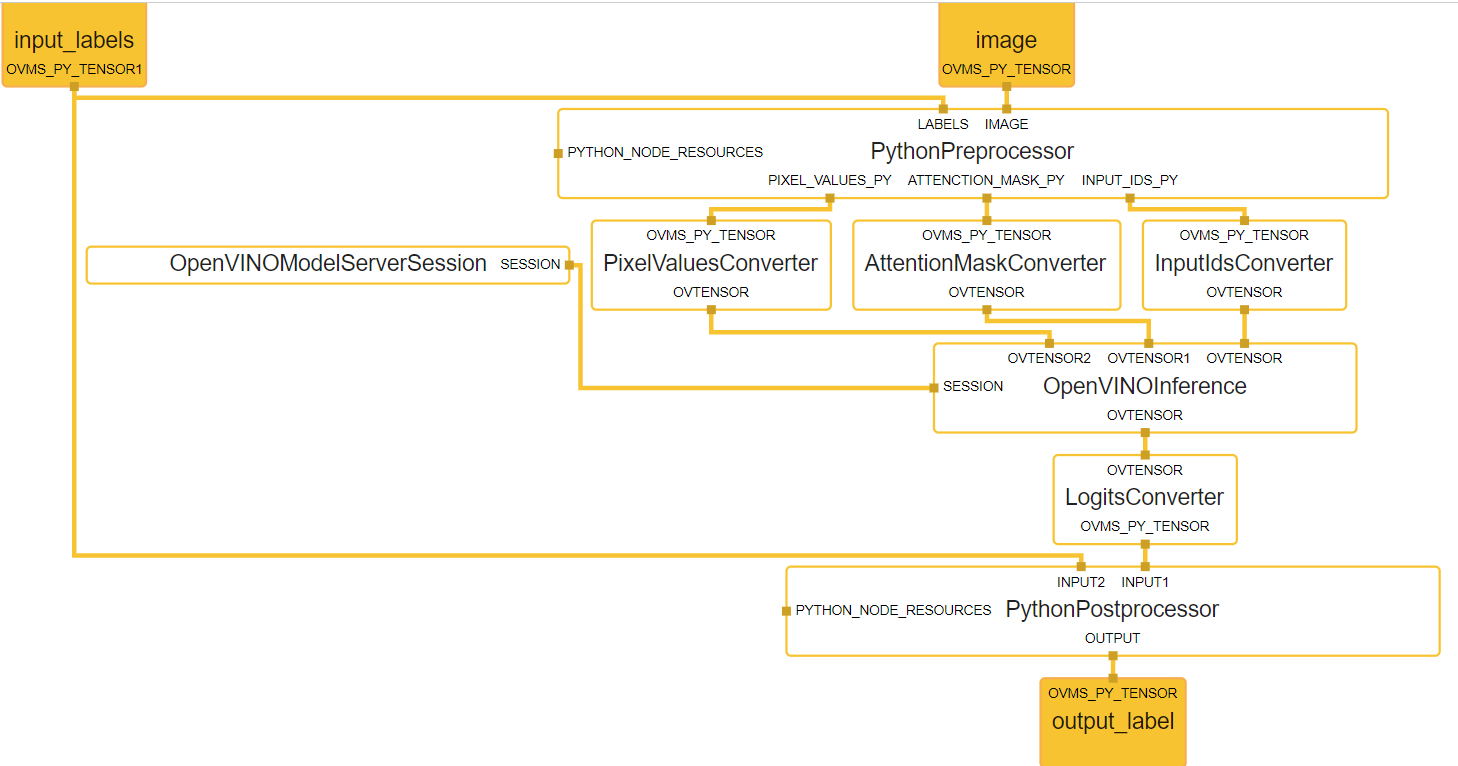
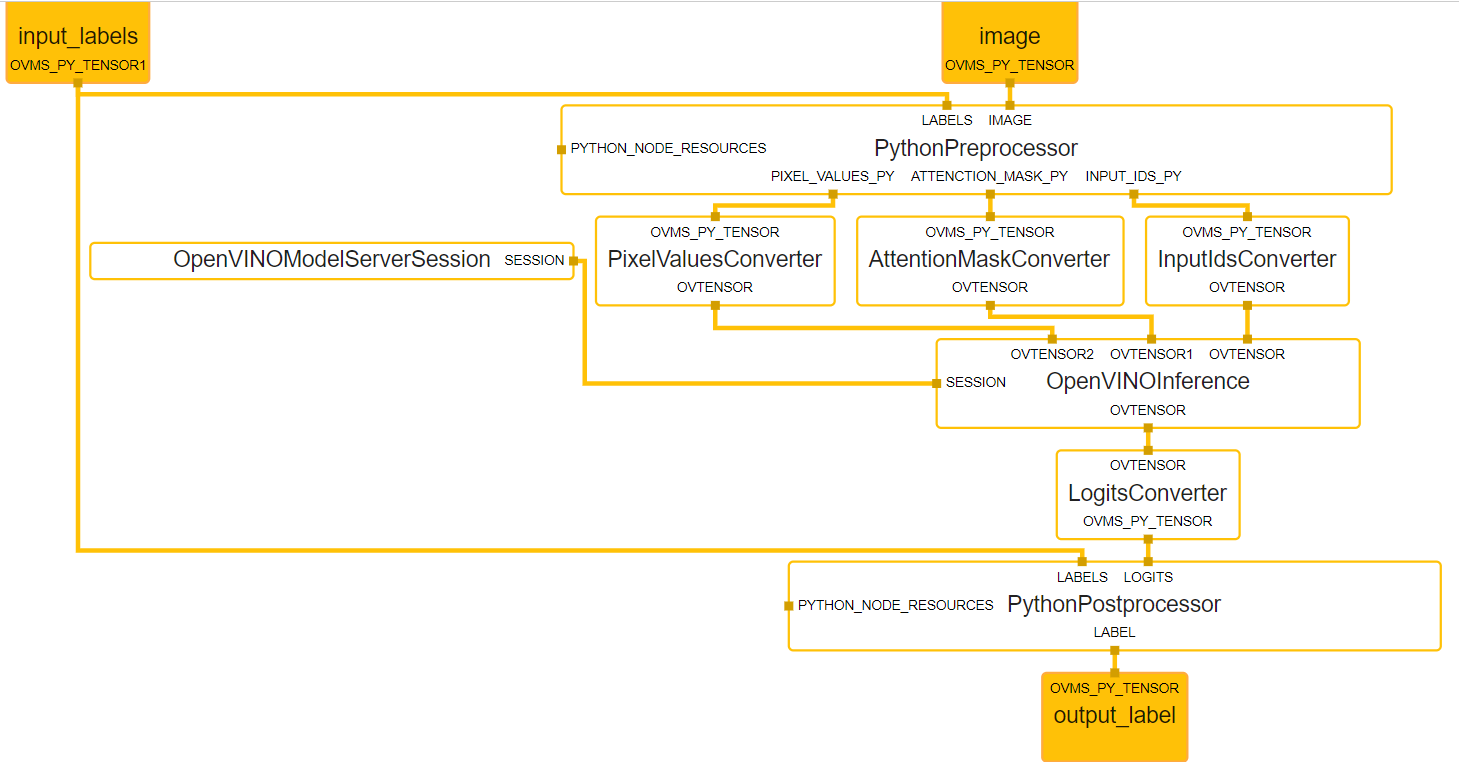
Docs

Changed region(s): [[0.0, 0.0, 0.9877, 1.0], [0.9259, 0.4528, 0.9568, 0.5433]]

diff --git a/demos/python_demos/clip_image_classification/servable/postprocess.py b/demos/python_demos/clip_image_classification/servable/postprocess.py
@@ -24,9 +24,10 @@ class OvmsPythonModel:
         pass
     
     def execute(self, inputs: list):
-        ov_logits_per_image = np.array(inputs[0], copy=False)
+        input_labels = np.frombuffer(inputs[0].data, inputs[0].datatype)
+
+        ov_logits_per_image = np.array(inputs[1], copy=False)
         probs = softmax(ov_logits_per_image, axis=1)[0]
-        input_labels = np.frombuffer(inputs[1].data, inputs[1].datatype)
 
         max_prob = probs.argmax(axis=0)
         max_label = input_labels[max_prob]

diff --git a/demos/README.md b/demos/README.md
@@ -6,6 +6,7 @@ maxdepth: 1
 hidden:
 ---
 
+ovms_demo_clip_image_classification
 ovms_demo_age_gender_guide
 ovms_demo_horizontal_text_detection
 ovms_demo_optical_character_recognition
@@ -42,6 +43,7 @@ OpenVINO Model Server demos have been created to showcase the usage of the model
 ## Python 
 | Demo | Description |
 |---|---|
+|[CLIP image classification](python_demos/clip_image_classification/README.md) | Python node execution with Openvino Model Server inference example on mediapipe graph with CLIP image classification model.|
 |[Age gender recognition](age_gender_recognition/python/README.md) | Run prediction on a JPEG image using age gender recognition model via gRPC API.|
 |[Horizontal Text Detection in Real-Time](horizontal_text_detection/python/README.md) | Run prediction on camera stream using a horizontal text detection model via gRPC API. This demo uses [pipeline](../docs/dag_scheduler.md) with [horizontal_ocr custom node](https://github.com/openvinotoolkit/model_server/tree/main/src/custom_nodes/horizontal_ocr) and [demultiplexer](../docs/demultiplexing.md). |
 |[Optical Character Recognition Pipeline](optical_character_recognition/python/README.md) | Run prediction on a JPEG image using a pipeline of text recognition and text detection models with a custom node for intermediate results processing via gRPC API. This demo uses [pipeline](../docs/dag_scheduler.md) with [east_ocr custom node](https://github.com/openvinotoolkit/model_server/tree/main/src/custom_nodes/east_ocr) and [demultiplexer](../docs/demultiplexing.md). |
